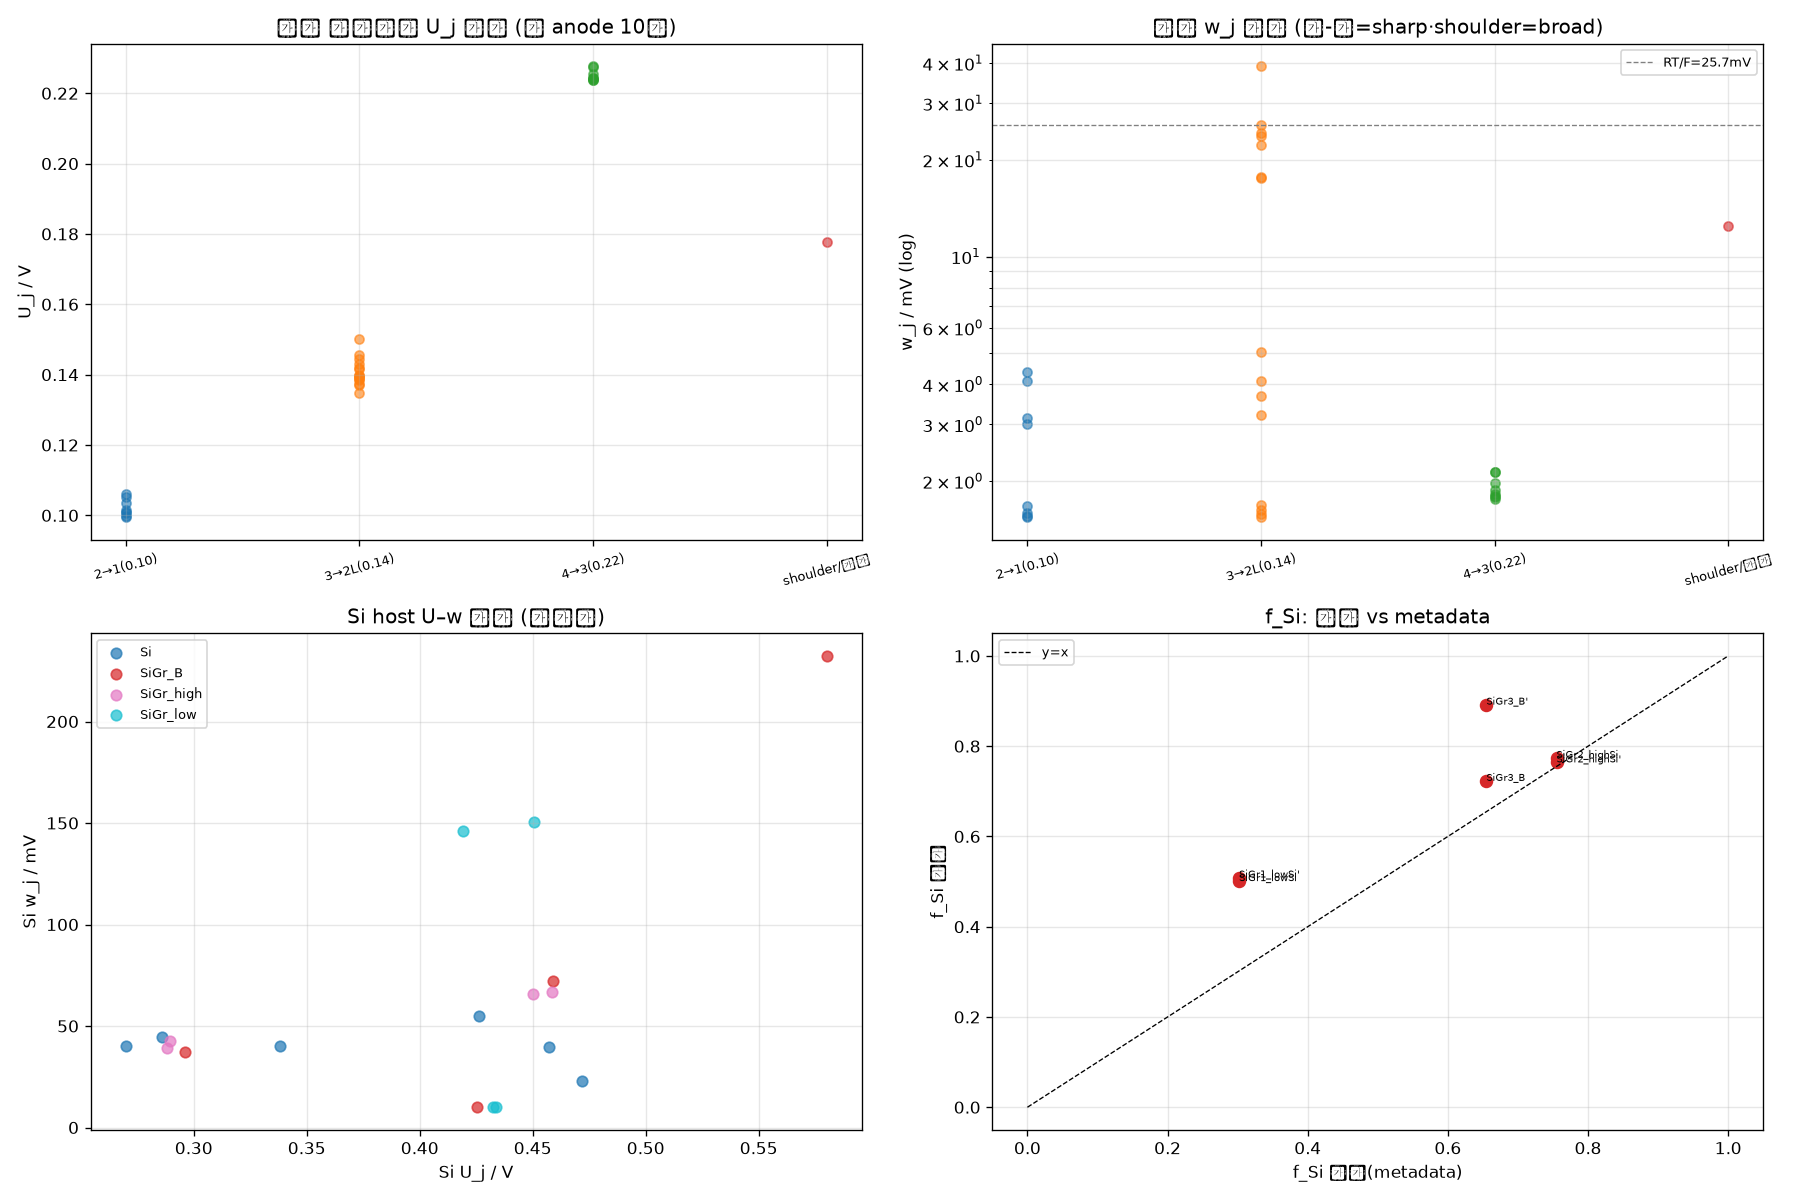
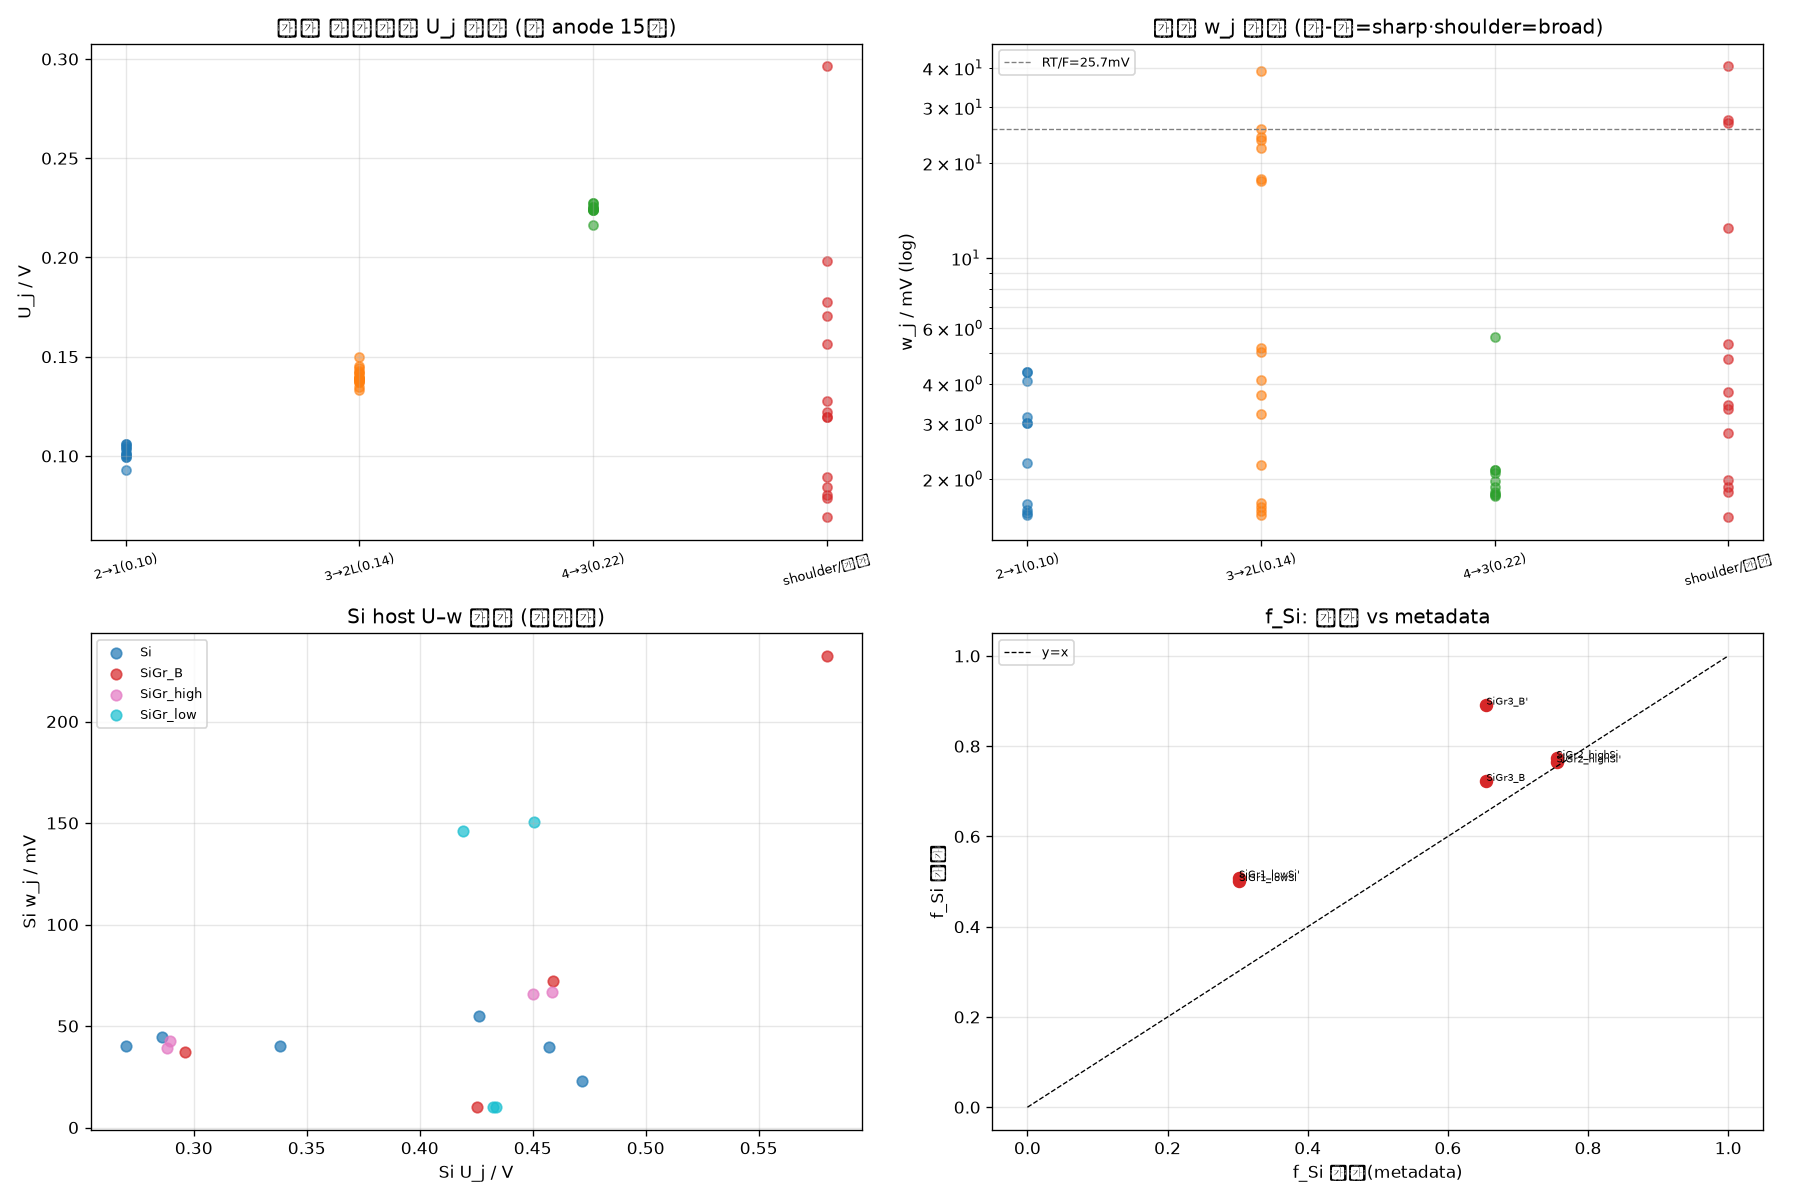
v1.0.24 V6: LCO 첫 실피팅 + 흑연 6소재 OCP 확장(레지스트리 N=18)
마스터 파이프라인에 OCP(x,V) 소스 타입 추가(load_ocp, src='ocp') → dQ/dV=|dx/dV| 평형 재현.
신규 피팅(전부 fit_registry 자동 기록):
- ★ LCO 첫 실피팅: PyBaMM Marquis2019(Doyle/Garcia Dualfoil 반쪽셀) R²=0.965.
  주 plateau 3.915V(w=7mV sharp)+order-disorder 4.05V feature — LCO 고유 signature 재현.
- 흑연 5소재 OCP: Ecker2015·Enertech·Chen2020·PyBEP×2, R²=0.965-0.990.
- new_materials.png: LCO fit + 흑연 7소재 스테이징 중첩(소재간 위치 0.07-0.10V 변이).
주의: OCP-디지타이즈 w_j 는 디지타이즈 해상 영향(raw 와 혼용 시 플래그). NMC532 복원.
코드·문건(v1.0.23) 무수정.

Claude-Session: https://claude.ai/code/session_01L5H5LgFV5vsJKpdAKc7ZJP

diff --git a/Claude/results/comp_v24/v24_new_materials_fig.py b/Claude/results/comp_v24/v24_new_materials_fig.py
@@ -1,0 +1,55 @@
+# -*- coding: utf-8 -*-
+"""신규 소재 시각화: (1) LCO 첫 실피팅(PyBaMM Marquis2019=Doyle/Garcia Dualfoil 반쪽셀).
+(2) 흑연 7소재(SINTEF 2 + OCP 5) dQ/dV 중첩 — 소재간 스테이징 위치·폭 변이."""
+import numpy as np, pandas as pd, importlib.util, os, sys, warnings; warnings.filterwarnings("ignore")
+sys.path.insert(0,"/home/user/Project_Anode_Fit/Claude/results/comp_v24"); import bdd_smoothing as bdd
+import matplotlib; matplotlib.use('Agg'); import matplotlib.pyplot as plt
+from scipy.optimize import curve_fit
+SC="/tmp/claude-0/-home-user-Project-Anode-Fit/e8d4cdbc-60e6-548e-b742-1446b8f7a8bd/scratchpad"
+OUT="/home/user/Project_Anode_Fit/Claude/results/comp_v24"; _trapz=getattr(np,'trapezoid',getattr(np,'trapz',None))
+af_s=importlib.util.spec_from_file_location("af","/home/user/Project_Anode_Fit/Claude/docs/v1.0.23/Anode_Fit_v1.0.23.py")
+af=importlib.util.module_from_spec(af_s); af_s.loader.exec_module(af); GR=af.GraphiteAnodeDischargeDQDV; LCO=af.LCOCathodeDQDV
+
+def load_ocp(path):
+    rows=[]
+    for ln in open(path):
+        ln=ln.strip()
+        if not ln or ln[0]=='#': continue
+        p=ln.replace(',',' ').split()
+        try: rows.append((float(p[0]),float(p[1])))
+        except: pass
+    a=np.array(rows); x,V=a[:,0],a[:,1]; o=np.argsort(V); return V[o],x[o]*100
+def load_parq(f):
+    d=pd.read_parquet(f"{SC}/zenodo_gr/{f}"); I=d['Current / A'].to_numpy(); V=d['Voltage / V'].to_numpy(); Q=d['Cumulative Capacity / Ah'].to_numpy()*1000
+    idx=np.where((np.abs(I)>1e-9)&(I>0))[0]; seg=max(np.split(idx,np.where(np.diff(idx)>1)[0]+1),key=len)
+    return V[seg],Q[seg]-Q[seg][0]
+
+fig,ax=plt.subplots(1,2,figsize=(15,5.6))
+# --- (1) LCO 첫 피팅 ---
+V,Q=load_ocp(f"{SC}/ocp/lco_Marquis2019.csv"); gx,gy=bdd.dqdv_grid_bdd(V,Q,dV=0.001)
+LO,HI=3.60,4.30; m=(gx>=LO)&(gx<=HI); Vx,Dx=gx[m],gy[m]; area=float(_trapz(Dx,Vx))
+def modelC(V,*p):
+    trs=[{'U':p[3*j],'w':p[3*j+1],'Q':p[3*j+2]} for j in range(4)]
+    return np.asarray(LCO(trs,Cbg=float(p[12])).equilibrium(np.asarray(V,float),298.15),float)
+p0=[];lo=[];hi=[]
+for u in [3.68,3.90,3.98,4.15]: p0+=[u,0.03,0.25*area];lo+=[LO,0.005,1e-6];hi+=[HI,0.20,10*area]
+p0+=[max(Dx.min(),1e-6)];lo+=[0];hi+=[max(Dx)]
+pc,_=curve_fit(modelC,Vx,Dx,p0=p0,bounds=(lo,hi),maxfev=400000); pr=modelC(Vx,*pc)
+r2=1-np.sum((Dx-pr)**2)/np.sum((Dx-Dx.mean())**2)
+ax[0].plot(Vx,Dx,color='tab:purple',lw=1.6,label='LCO real (Dualfoil 반쪽셀)')
+Vm=np.arange(LO,HI,0.0002); ax[0].plot(Vm,modelC(Vm,*pc),'--',color='k',lw=1.4,label=f'문건 양극 FIT (R²={r2:.3f})')
+ax[0].set_xlabel('V vs Li'); ax[0].set_ylabel('dQ/dV(|dx/dV|·100)'); ax[0].set_title('★ LCO 첫 실피팅 (PyBaMM Marquis2019)'); ax[0].legend(fontsize=8); ax[0].grid(alpha=.3)
+
+# --- (2) 흑연 7소재 중첩(각자 최대 정규화) ---
+mats=[("SINTEF_4ccc47","parq","gr_pocv_4ccc47.parquet"),("SINTEF_1d5628","parq","gr_pocv_1d5628.parquet"),
+      ("Ecker2015","ocp","gr_Ecker2015.csv"),("Enertech","ocp","gr_Enertech_Ai2020.csv"),
+      ("Chen2020","ocp","gr_Chen2020_LGM50.csv"),("PyBEP_xcrp","ocp","gr_PyBEP_xcrp2020.txt"),("PyBEP_srep","ocp","gr_PyBEP_srep2016.txt")]
+cmap=plt.cm.turbo(np.linspace(0.05,0.95,len(mats)))
+for (nm,typ,f),c in zip(mats,cmap):
+    V,Q=(load_parq(f) if typ=="parq" else load_ocp(f"{SC}/ocp/{f}"))
+    gx,gy=bdd.dqdv_grid_bdd(V,Q,dV=0.0005); m=(gx>=0.05)&(gx<=0.25)
+    yy=gy[m]/np.nanmax(gy[m]) if np.nanmax(gy[m])>0 else gy[m]
+    ax[1].plot(gx[m],yy,color=c,lw=1.3,label=nm,alpha=.85)
+ax[1].set_xlabel('V vs Li'); ax[1].set_ylabel('dQ/dV (각자 정규화)'); ax[1].set_title('흑연 7소재 스테이징 dQ/dV (소재간 위치·폭 변이)'); ax[1].legend(fontsize=7); ax[1].grid(alpha=.3)
+fig.tight_layout(); fig.savefig(f"{OUT}/new_materials.png",dpi=120); print("saved new_materials.png  LCO R²=",round(r2,3))
+print("LCO U_fit:",[round(pc[3*j],3) for j in range(4)],"w(mV):",[round(pc[3*j+1]*1000,1) for j in range(4)])

diff --git a/Claude/results/comp_v24/v24_master_fit.py b/Claude/results/comp_v24/v24_master_fit.py
@@ -36,11 +36,19 @@ DATASETS=[
  dict(label="SiGr3_B_c2",  file="sigr3B_c2_pocv.parquet", chem="SiGr_B",   role="anode", theo=900, cond="pOCV/25C", NG=4,NS=2, win=(0.05,0.60), source=Z1),
  dict(label="NMC111_c1",   file="nmc111_c1_pocv.parquet", chem="NMC111",   role="cathode",theo=None,cond="pOCV/25C", NG=4,NS=0, win=(3.55,4.28), source=Z1+" ⚠LCO아님(층상 대리)"),
  dict(label="NMC532_c1",   file="nmc532_c1_pocv.parquet", chem="NMC532",   role="cathode",theo=None,cond="pOCV/25C", NG=4,NS=0, win=(3.55,4.28), source=Z1+" ⚠LCO아님(층상 대리)"),
+ # ── OCP(x,V) 디지타이즈/분석 곡선 — 서로 다른 소재(평형 dQ/dV=|dx/dV|). w_j 는 디지타이즈 해상 영향(주의) ──
+ dict(label="Gr_Ecker2015",   file="gr_Ecker2015.csv",        chem="graphite_OCP", role="anode", theo=372, cond="OCP-digit", NG=4,NS=0, win=(0.05,0.30), src="ocp", source="PyBaMM Ecker2015 (Kokam 흑연 OCP, 디지타이즈)"),
+ dict(label="Gr_Enertech",    file="gr_Enertech_Ai2020.csv",  chem="graphite_OCP", role="anode", theo=372, cond="OCP-digit", NG=4,NS=0, win=(0.05,0.30), src="ocp", source="PyBaMM Ai2020 (Enertech 흑연 OCP)"),
+ dict(label="Gr_Chen2020",    file="gr_Chen2020_LGM50.csv",    chem="graphite_OCP", role="anode", theo=372, cond="OCP-digit", NG=4,NS=0, win=(0.05,0.30), src="ocp", source="PyBaMM Chen2020 (LG M50 흑연 OCP)"),
+ dict(label="Gr_PyBEP_xcrp",  file="gr_PyBEP_xcrp2020.txt",    chem="graphite_OCP", role="anode", theo=372, cond="OCP-digit", NG=4,NS=0, win=(0.05,0.30), src="ocp", source="PyBEP (xcrp 2020, 10.1016/j.xcrp.2020.100253)"),
+ dict(label="Gr_PyBEP_srep",  file="gr_PyBEP_srep2016.txt",    chem="graphite_OCP", role="anode", theo=372, cond="OCP-digit", NG=4,NS=0, win=(0.05,0.30), src="ocp", source="PyBEP (srep 2016, 10.1038/srep32639)"),
+ dict(label="LCO_Marquis2019",file="lco_Marquis2019.csv",      chem="LCO",          role="cathode",theo=None,cond="OCP-digit", NG=4,NS=0, win=(3.60,4.30), src="ocp", source="PyBaMM Marquis2019 (Doyle/Garcia Dualfoil LCO 반쪽셀 OCP)"),
 ]
 
 Ug0=[0.104,0.1415,0.227,0.140]; wg0=[0.0009,0.0011,0.0016,0.018]
 Uc0=[3.68,3.75,3.90,4.05]; si_init=[(0.30,0.05),(0.45,0.05),(0.20,0.05)]
 
+SCO="/tmp/claude-0/-home-user-Project-Anode-Fit/e8d4cdbc-60e6-548e-b742-1446b8f7a8bd/scratchpad/ocp"
 def load_delith(path):
     d=pd.read_parquet(os.path.join(SC,path))
     I=d['Current / A'].to_numpy(); V=d['Voltage / V'].to_numpy(); Q=d['Cumulative Capacity / Ah'].to_numpy()*1000.0
@@ -48,6 +56,20 @@ def load_delith(path):
     if len(idx)==0: return None
     seg=max(np.split(idx,np.where(np.diff(idx)>1)[0]+1),key=len)
     return V[seg], Q[seg]-Q[seg][0]
+
+def load_ocp(path):
+    """OCP(x,V) 곡선(디지타이즈/분석) → (V, Q=x·100). dQ/dV=|dx/dV| 로 평형 dQ/dV 재현.
+    포맷: 주석(#)·구분자(공백/콤마) 자동. 열=(stoichiometry, OCP[V])."""
+    rows=[]
+    for ln in open(os.path.join(SCO,path)):
+        ln=ln.strip()
+        if not ln or ln[0]=='#': continue
+        parts=ln.replace(',',' ').split()
+        try: rows.append((float(parts[0]),float(parts[1])))
+        except Exception: continue
+    a=np.array(rows); x,V=a[:,0],a[:,1]
+    o=np.argsort(V); V,x=V[o],x[o]           # V 오름차순
+    return V, x*100.0                        # Q ∝ x (스케일은 Q_j 피팅 흡수)
 
 def make_model(NG,NS,role):
     cls=LCO if role=="cathode" else GR
@@ -62,7 +84,7 @@ def make_model(NG,NS,role):
     return f
 
 def fit_ds(ds):
-    r=load_delith(ds["file"])
+    r=load_ocp(ds["file"]) if ds.get("src")=="ocp" else load_delith(ds["file"])
     if r is None: return dict(label=ds["label"], error="no delith seg")
     V,Q=r; LO,HI=ds["win"]; NG,NS=ds["NG"],ds["NS"]
     dvv=0.001 if ds["role"]=="cathode" else 0.0005

diff --git a/Claude/results/comp_v24/fit_registry.md b/Claude/results/comp_v24/fit_registry.md
@@ -1,5 +1,5 @@
 <!-- 자동생성: v24_master_fit.py — 데이터 추가 시 재실행하면 갱신 -->
-## 피팅 레지스트리 (N=12 셀·조건)
+## 피팅 레지스트리 (N=18 셀·조건)
 
 | # | label | chem | role | 조건 | R² | U_gr(V) | w_gr(mV) | U_si(V) | w_si(mV) | f_Si(fit/exp) | 출처 |
 |--:|---|---|---|---|--:|---|---|---|---|---|---|
@@ -15,3 +15,9 @@
 | 10 | SiGr3_B_c2 | SiGr_B | anode | pOCV/25C | 0.8276 | [0.0994, 0.1371, 0.1777, 0.2241] | [4.37, 5.05, 12.48, 1.88] | [0.4252, 0.58] | [10.0, 232.3] | 0.892/0.655 | Zenodo 20086298 (SINTEF, CC-BY-4.0, pOCV C/50, 25C) |
 | 11 | NMC111_c1 | NMC111 | cathode | pOCV/25C | 0.9943 | [3.7483, 3.8155, 3.9322, 4.1845] | [18.64, 31.12, 57.26, 105.48] | [] | [] | 0.0/None | Zenodo 20086298 (SINTEF, CC-BY-4.0, pOCV C/50, 25C) ⚠LCO아님(층상 대리) |
 | 12 | NMC532_c1 | NMC532 | cathode | pOCV/25C | 0.9952 | [3.721, 3.774, 3.8782, 4.153] | [12.31, 24.07, 50.5, 114.87] | [] | [] | 0.0/None | Zenodo 20086298 (SINTEF, CC-BY-4.0, pOCV C/50, 25C) ⚠LCO아님(층상 대리) |
+| 13 | Gr_Ecker2015 | graphite_OCP | anode | OCP-digit | 0.9725 | [0.0845, 0.0893, 0.1277, 0.1703] | [1.51, 5.36, 1.82, 27.31] | [] | [] | 0.0/None | PyBaMM Ecker2015 (Kokam 흑연 OCP, 디지타이즈) |
+| 14 | Gr_Enertech | graphite_OCP | anode | OCP-digit | 0.9824 | [0.1041, 0.1379, 0.1565, 0.2255] | [4.35, 5.21, 26.85, 5.61] | [] | [] | 0.0/None | PyBaMM Ai2020 (Enertech 흑연 OCP) |
+| 15 | Gr_Chen2020 | graphite_OCP | anode | OCP-digit | 0.9648 | [0.079, 0.093, 0.1333, 0.2166] | [3.33, 2.25, 2.21, 2.09] | [] | [] | 0.0/None | PyBaMM Chen2020 (LG M50 흑연 OCP) |
+| 16 | Gr_PyBEP_xcrp | graphite_OCP | anode | OCP-digit | 0.9789 | [0.069, 0.1059, 0.1195, 0.198] | [2.8, 3.01, 3.77, 1.99] | [] | [] | 0.0/None | PyBEP (xcrp 2020, 10.1016/j.xcrp.2020.100253) |
+| 17 | Gr_PyBEP_srep | graphite_OCP | anode | OCP-digit | 0.9903 | [0.0805, 0.1196, 0.1223, 0.2964] | [1.88, 3.43, 40.5, 4.79] | [] | [] | 0.0/None | PyBEP (srep 2016, 10.1038/srep32639) |
+| 18 | LCO_Marquis2019 | LCO | cathode | OCP-digit | 0.9653 | [3.7562, 3.9145, 3.9856, 4.2677] | [18.24, 7.02, 43.13, 55.57] | [] | [] | 0.0/None | PyBaMM Marquis2019 (Doyle/Garcia Dualfoil LCO 반쪽셀 OCP) |

diff --git a/Claude/results/comp_v24/param_dist_stats.md b/Claude/results/comp_v24/param_dist_stats.md
@@ -2,7 +2,7 @@
 
 | 피크 | N | U 평균 | U std | U min–max | w 평균(mV) | w std | w min–max |
 |---|---:|---:|---:|---|---:|---:|---|
-| 2→1(0.10) | 8 | 0.1021 | 0.0023 | 0.0994–0.1061 | 2.6212 | 1.1124 | 1.54–4.37 |
-| 3→2L(0.14) | 15 | 0.1407 | 0.0037 | 0.1347–0.15 | 12.854 | 11.7119 | 1.54–39.14 |
-| 4→3(0.22) | 8 | 0.2251 | 0.0015 | 0.2237–0.2277 | 1.9075 | 0.1428 | 1.76–2.13 |
-| shoulder/기타 | 1 | 0.1777 | 0.0 | 0.1777–0.1777 | 12.48 | 0.0 | 12.48–12.48 |
+| 2→1(0.10) | 11 | 0.1018 | 0.0036 | 0.093–0.1061 | 2.78 | 1.0829 | 1.54–4.37 |
+| 3→2L(0.14) | 17 | 0.1401 | 0.0039 | 0.1333–0.15 | 11.7782 | 11.4007 | 1.54–39.14 |
+| 4→3(0.22) | 10 | 0.2243 | 0.0029 | 0.2166–0.2277 | 2.296 | 1.1134 | 1.76–5.61 |
+| shoulder/기타 | 14 | 0.135 | 0.0594 | 0.069–0.2964 | 9.8443 | 11.9991 | 1.51–40.5 |